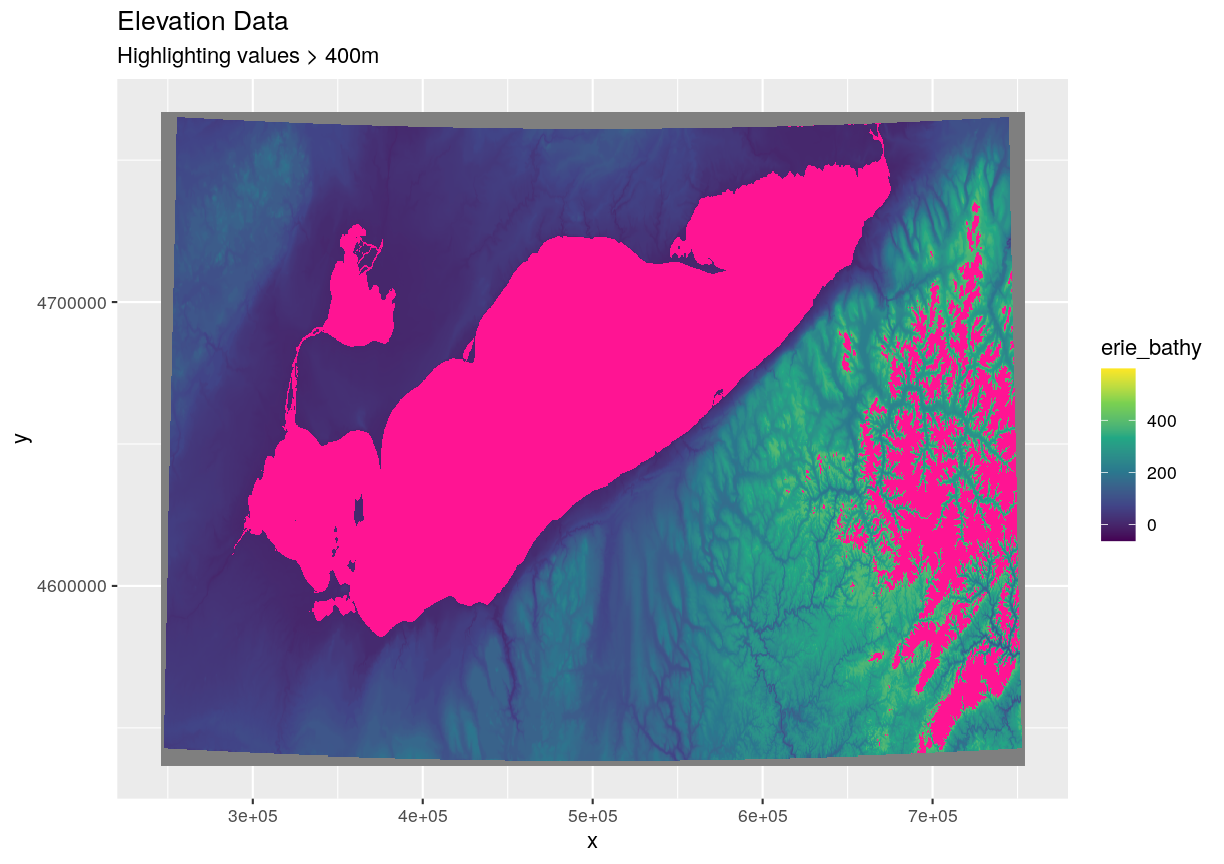
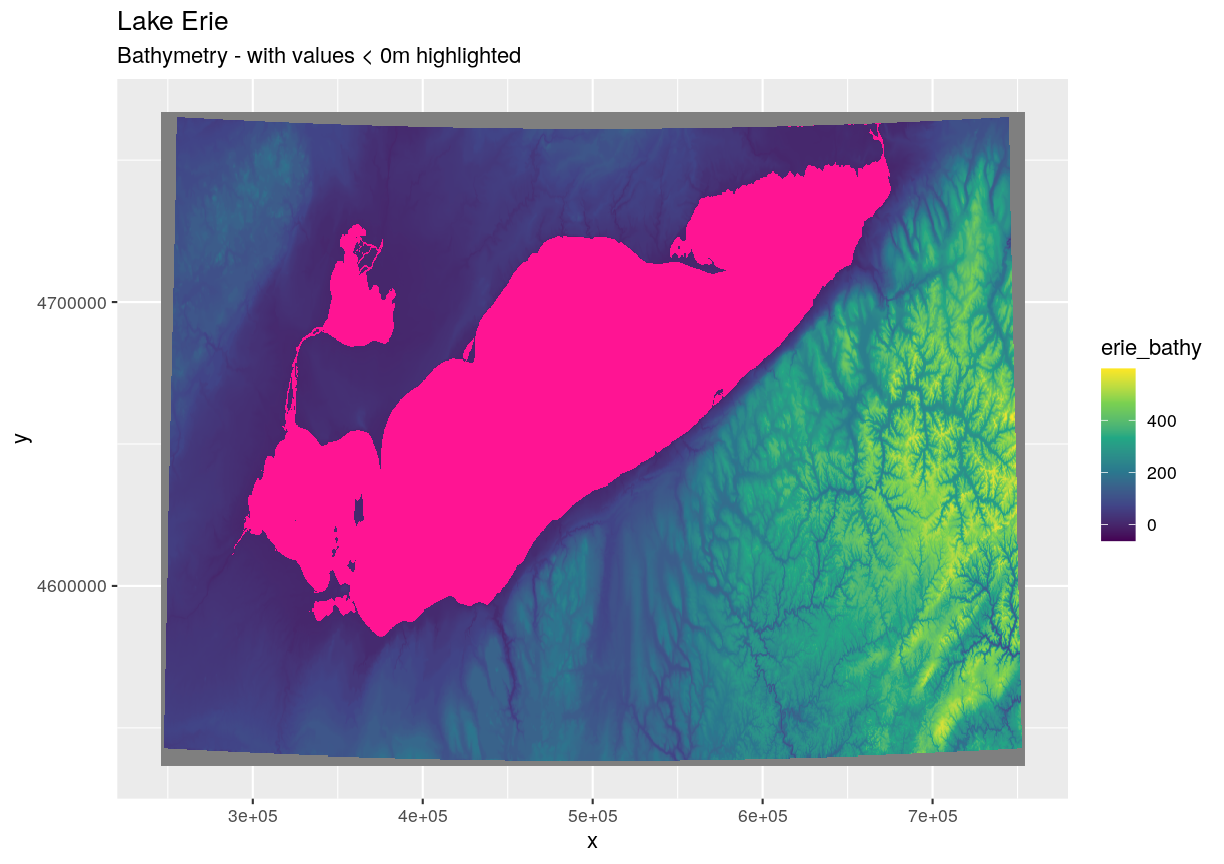
cleanup ep 4

Changed region(s): [[0.683, 0.25, 0.8382, 0.875], [0.0931, 0.0, 0.4346, 0.0938]]

diff --git a/_site/04-raster-structure/index.html b/_site/04-raster-structure/index.html
@@ -19,7 +19,7 @@
   <head>
     <meta charset="utf-8">
     <meta http-equiv="X-UA-Compatible" content="IE=edge">
-    <meta http-equiv="last-modified" content="2020-02-18 15:18:35 -0500">
+    <meta http-equiv="last-modified" content="2020-02-18 15:57:56 -0500">
     <meta name="viewport" content="width=device-width, initial-scale=1">
     <!-- meta "search-domain" used for google site search function google_search() -->
     <meta name="search-domain" value="">
@@ -401,11 +401,11 @@ columns, descriptive statistics for raster data can be retrieved like</p>
 </code></pre></div></div>
 
 <div class="output highlighter-rouge"><div class="highlight"><pre class="highlight"><code>        erie_bathy
-Min.    -62.475956
-1st Qu.   1.499023
-Median   63.130966
-3rd Qu. 219.889240
-Max.    589.709839
+Min.    -62.476700
+1st Qu.   1.658575
+Median   64.375511
+3rd Qu. 220.712543
+Max.    596.867676
 NA's      0.000000
 </code></pre></div></div>
 
@@ -458,6 +458,7 @@ which is a color-blindness friendly color scale. We will also use the <code clas
 </span></code></pre></div></div>
 
 <p><img src="../fig/rmd-04-ggplot-raster-1.png" title="Raster plot with ggplot2 using the viridis color scale" alt="Raster plot with ggplot2 using the viridis color scale" width="612" style="display: block; margin: auto;" /></p>
+
 <blockquote class="callout">
   <h2 id="plotting-tip">Plotting Tip</h2>
 
@@ -479,9 +480,9 @@ which is a color-blindness friendly color scale. We will also use the <code clas
   </blockquote>
 </blockquote>
 
-<p>This map shows the elevation of our study site in Lake Erie. From the
-legend, we can see that the maximum elevation is ~400, but we can’t tell whether
-this is 400 feet or 400 meters because the legend doesn’t show us the units. We
+<p>This map shows the elevation of our Lake Erie study area. From the
+legend, we can see that the maximum elevation is ~600, but we can’t tell whether
+this is 600 feet or 600 meters because the legend doesn’t show us the units. We
 can look at the metadata of our object to see what the units are. Much of the
 metadata that we’re interested in is part of the CRS. We introduced the
 concept of a CRS in <a href="https://datacarpentry.org/organization-geospatial/03-crs">an earlier
@@ -604,31 +605,38 @@ assigned to pixels where data is missing or no data were collected.</p>
 
 <p>By default the shape of a raster is always rectangular. So if we have  a dataset
 that has a shape that isn’t rectangular, some pixels at the edge of the raster
-will have <code class="highlighter-rouge">NoDataValue</code>s. This often happens when the data were collected by an
+will have <code class="highlighter-rouge">NoDataValue</code>s. This can happen if the data were collected by an
 airplane which only flew over some part of a defined region.</p>
 
-<p>In the image below, the pixels that are black have <code class="highlighter-rouge">NoDataValue</code>s. The camera
-did not collect data in these areas.</p>
+<p>In the image below, no pixels are black meaning we have data for every raster “cell”.</p>
 
 <p><img src="../fig/rmd-04-demonstrate-no-data-black-ggplot-1.png" title="plot of chunk demonstrate-no-data-black-ggplot" alt="plot of chunk demonstrate-no-data-black-ggplot" width="612" style="display: block; margin: auto;" /></p>
 
-<p>In the next image, the black edges have been assigned <code class="highlighter-rouge">NoDataValue</code>. R doesn’t
-render pixels that contain a specified <code class="highlighter-rouge">NoDataValue</code>. R assigns missing data
-with the <code class="highlighter-rouge">NoDataValue</code> as <code class="highlighter-rouge">NA</code>.</p>
-
-<p>The difference here shows up as ragged edges on the plot, rather than black
-spaces where there is no data.</p>
-
-<div class="error highlighter-rouge"><div class="highlight"><pre class="highlight"><code>Error: colours encodes as numbers must be positive
-</code></pre></div></div>
-
-<p><img src="../fig/rmd-04-demonstrate-no-data-ggplot-1.png" title="plot of chunk demonstrate-no-data-ggplot" alt="plot of chunk demonstrate-no-data-ggplot" width="612" style="display: block; margin: auto;" /></p>
-
-<p>If your raster already has <code class="highlighter-rouge">NA</code> values set correctly but you aren’t sure where they are, you can deliberately plot them in a particular colour. This can be useful when checking a dataset’s coverage. For instance, sometimes data can be missing where a sensor could not ‘see’ its target data, and you may wish to locate that missing data and fill it in.</p>
+<p>If your raster has <code class="highlighter-rouge">NA</code> values but you aren’t sure where they are, you can deliberately plot them in a particular colour. This can be useful when checking a dataset’s coverage. For instance, sometimes data can be missing where a sensor could not ‘see’ its target data, and you may wish to locate that missing data and fill it in.</p>
 
 <p>To highlight <code class="highlighter-rouge">NA</code> values in ggplot, alter the <code class="highlighter-rouge">scale_fill_*()</code> layer to contain a colour instruction for <code class="highlighter-rouge">NA</code> values, like <code class="highlighter-rouge">scale_fill_viridis_c(na.value = 'deeppink')</code></p>
 
-<p><img src="../fig/rmd-04-napink-1.png" title="plot of chunk napink" alt="plot of chunk napink" width="612" style="display: block; margin: auto;" /></p>
+<div class="error highlighter-rouge"><div class="highlight"><pre class="highlight"><code>Error in eval(expr, envir, enclos): object 'RGB_2m_df_nd' not found
+</code></pre></div></div>
+
+<div class="error highlighter-rouge"><div class="highlight"><pre class="highlight"><code>Error in fortify(data): object 'RGB_2m_nas' not found
+</code></pre></div></div>
+
+<div class="error highlighter-rouge"><div class="highlight"><pre class="highlight"><code>Warning in rm(RGB_2m, RGB_stack, RGB_2m_df_nd, RGB_2m_df, RGB_2m_nas): object
+'RGB_2m' not found
+</code></pre></div></div>
+
+<div class="error highlighter-rouge"><div class="highlight"><pre class="highlight"><code>Warning in rm(RGB_2m, RGB_stack, RGB_2m_df_nd, RGB_2m_df, RGB_2m_nas): object
+'RGB_stack' not found
+</code></pre></div></div>
+
+<div class="error highlighter-rouge"><div class="highlight"><pre class="highlight"><code>Warning in rm(RGB_2m, RGB_stack, RGB_2m_df_nd, RGB_2m_df, RGB_2m_nas): object
+'RGB_2m_df_nd' not found
+</code></pre></div></div>
+
+<div class="error highlighter-rouge"><div class="highlight"><pre class="highlight"><code>Warning in rm(RGB_2m, RGB_stack, RGB_2m_df_nd, RGB_2m_df, RGB_2m_nas): object
+'RGB_2m_nas' not found
+</code></pre></div></div>
 
 <p>The value that is conventionally used to take note of missing data (the
 <code class="highlighter-rouge">NoDataValue</code> value) varies by the raster data type. For floating-point rasters,
@@ -656,13 +664,34 @@ of <code class="highlighter-rouge">NA</code> will be ignored by R as demonstrate
   <blockquote class="solution">
     <h2 id="answers-1">Answers</h2>
 
-    <div class="language-r highlighter-rouge"><div class="highlight"><pre class="highlight"><code><span class="n">GDALinfo</span><span class="p">(</span><span class="s2">"data/NEON-DS-Airborne-Remote-Sensing/HARV/DSM/erie_bathy.tif"</span><span class="p">)</span><span class="w">
+    <div class="language-r highlighter-rouge"><div class="highlight"><pre class="highlight"><code><span class="n">GDALinfo</span><span class="p">(</span><span class="s2">"data//erie_bathy.tif"</span><span class="p">)</span><span class="w">
 </span></code></pre></div>    </div>
 
-    <div class="error highlighter-rouge"><div class="highlight"><pre class="highlight"><code>Error in .local(.Object, ...): 
+    <div class="output highlighter-rouge"><div class="highlight"><pre class="highlight"><code>rows        623 
+columns     1843 
+bands       1 
+lower left origin.x        245701 
+lower left origin.y        4536578 
+res.x       276 
+res.y       370 
+ysign       -1 
+oblique.x   0 
+oblique.y   0 
+driver      GTiff 
+projection  +proj=utm +zone=17 +ellps=GRS80 +towgs84=0,0,0,0,0,0,0 +units=m
++no_defs 
+file        data//erie_bathy.tif 
+apparent band summary:
+   GDType hasNoDataValue NoDataValue blockSize1 blockSize2
+1 Float32           TRUE    -3.4e+38          1       1843
+apparent band statistics:
+       Bmin     Bmax Bmean Bsd
+1 -62.47671 598.1871   NaN NaN
+Metadata:
+AREA_OR_POINT=Area 
 </code></pre></div>    </div>
 
-    <p><code class="highlighter-rouge">NoDataValue</code> are encoded as -9999.</p>
+    <p><code class="highlighter-rouge">NoDataValue</code> are encoded as -3.4e+38.</p>
   </blockquote>
 </blockquote>
 
@@ -691,7 +720,7 @@ identify questionable values.</p>
 
 <p>Plotting data with appropriate highlighting can help reveal patterns in bad
 values and may suggest a solution. Below, reclassification is used to highlight
-elevation values over 400m with a contrasting colour.</p>
+elevation values less than 0m with a contrasting colour.</p>
 
 <p><img src="../fig/rmd-04-demo-bad-data-highlighting-1.png" title="plot of chunk demo-bad-data-highlighting" alt="plot of chunk demo-bad-data-highlighting" width="612" style="display: block; margin: auto;" /></p>
 
@@ -732,42 +761,8 @@ by using the <code class="highlighter-rouge">bins</code> value in the <code clas
 
 <p>Note that the shape of this histogram looks similar to the previous one that
 was created using the default of 30 bins. The distribution of elevation values
-for our <code class="highlighter-rouge">Digital Surface Model (DSM)</code> looks reasonable. It is likely there are
+for our Bathymetry data looks reasonable. It is likely there are
 no bad data values in this particular raster.</p>
-
-<blockquote class="challenge">
-  <h2 id="challenge-explore-raster-metadata">Challenge: Explore Raster Metadata</h2>
-
-  <p>Use <code class="highlighter-rouge">GDALinfo()</code> to determine the following about the <code class="highlighter-rouge">NEON-DS-Airborne-Remote-Sensing/HARV/DSM/HARV_DSMhill.tif</code> file:</p>
-
-  <ol>
-    <li>Does this file have the same CRS as <code class="highlighter-rouge">erie_bathy</code>?</li>
-    <li>What is the <code class="highlighter-rouge">NoDataValue</code>?</li>
-    <li>What is resolution of the raster data?</li>
-    <li>How large would a 5x5 pixel area be on the Earth’s surface?</li>
-    <li>Is the file a multi- or single-band raster?</li>
-  </ol>
-
-  <p>Notice: this file is a hillshade. We will learn about hillshades in the <a href="/05-raster-multi-band-in-r/">Working with
-Multi-band Rasters in R</a>  episode.</p>
-  <blockquote class="solution">
-
-    <h2 id="answers-2">Answers</h2>
-
-    <div class="language-r highlighter-rouge"><div class="highlight"><pre class="highlight"><code><span class="n">GDALinfo</span><span class="p">(</span><span class="s2">"data/NEON-DS-Airborne-Remote-Sensing/HARV/DSM/HARV_DSMhill.tif"</span><span class="p">)</span><span class="w">
-</span></code></pre></div>    </div>
-
-    <div class="error highlighter-rouge"><div class="highlight"><pre class="highlight"><code>Error in .local(.Object, ...): 
-</code></pre></div>    </div>
-    <ol>
-      <li>If this file has the same CRS as erie_bathy?  Yes: UTM Zone 18, WGS84, meters.</li>
-      <li>What format <code class="highlighter-rouge">NoDataValues</code> take?  -9999</li>
-      <li>The resolution of the raster data? 1x1</li>
-      <li>How large a 5x5 pixel area would be? 5mx5m How? We are given resolution of 1x1 and units in meters, therefore resolution of 5x5 means 5x5m.</li>
-      <li>Is the file a multi- or single-band raster?  Single.</li>
-    </ol>
-  </blockquote>
-</blockquote>
 
 <blockquote class="callout">
   <h2 id="more-resources">More Resources</h2>

diff --git a/_site/01-vector-open-shapefile-in-r/index.html b/_site/01-vector-open-shapefile-in-r/index.html
@@ -19,7 +19,7 @@
   <head>
     <meta charset="utf-8">
     <meta http-equiv="X-UA-Compatible" content="IE=edge">
-    <meta http-equiv="last-modified" content="2020-02-18 15:18:35 -0500">
+    <meta http-equiv="last-modified" content="2020-02-18 15:57:56 -0500">
     <meta name="viewport" content="width=device-width, initial-scale=1">
     <!-- meta "search-domain" used for google site search function google_search() -->
     <meta name="search-domain" value="">

diff --git a/_site/02-vector-shapefile-attributes-in-r/index.html b/_site/02-vector-shapefile-attributes-in-r/index.html
@@ -19,7 +19,7 @@
   <head>
     <meta charset="utf-8">
     <meta http-equiv="X-UA-Compatible" content="IE=edge">
-    <meta http-equiv="last-modified" content="2020-02-18 15:18:35 -0500">
+    <meta http-equiv="last-modified" content="2020-02-18 15:57:56 -0500">
     <meta name="viewport" content="width=device-width, initial-scale=1">
     <!-- meta "search-domain" used for google site search function google_search() -->
     <meta name="search-domain" value="">

diff --git a/_site/03-vector-csv-to-shapefile-in-r/index.html b/_site/03-vector-csv-to-shapefile-in-r/index.html
@@ -19,7 +19,7 @@
   <head>
     <meta charset="utf-8">
     <meta http-equiv="X-UA-Compatible" content="IE=edge">
-    <meta http-equiv="last-modified" content="2020-02-18 15:18:35 -0500">
+    <meta http-equiv="last-modified" content="2020-02-18 15:57:56 -0500">
     <meta name="viewport" content="width=device-width, initial-scale=1">
     <!-- meta "search-domain" used for google site search function google_search() -->
     <meta name="search-domain" value="">

diff --git a/_site/05-vector-raster-integration/index.html b/_site/05-vector-raster-integration/index.html
@@ -19,7 +19,7 @@
   <head>
     <meta charset="utf-8">
     <meta http-equiv="X-UA-Compatible" content="IE=edge">
-    <meta http-equiv="last-modified" content="2020-02-18 15:18:35 -0500">
+    <meta http-equiv="last-modified" content="2020-02-18 15:57:56 -0500">
     <meta name="viewport" content="width=device-width, initial-scale=1">
     <!-- meta "search-domain" used for google site search function google_search() -->
     <meta name="search-domain" value="">

diff --git a/_site/CODE_OF_CONDUCT.html b/_site/CODE_OF_CONDUCT.html
@@ -19,7 +19,7 @@
   <head>
     <meta charset="utf-8">
     <meta http-equiv="X-UA-Compatible" content="IE=edge">
-    <meta http-equiv="last-modified" content="2020-02-18 15:18:35 -0500">
+    <meta http-equiv="last-modified" content="2020-02-18 15:57:56 -0500">
     <meta name="viewport" content="width=device-width, initial-scale=1">
     <!-- meta "search-domain" used for google site search function google_search() -->
     <meta name="search-domain" value="">

diff --git a/_site/LICENSE.html b/_site/LICENSE.html
@@ -19,7 +19,7 @@
   <head>
     <meta charset="utf-8">
     <meta http-equiv="X-UA-Compatible" content="IE=edge">
-    <meta http-equiv="last-modified" content="2020-02-18 15:18:35 -0500">
+    <meta http-equiv="last-modified" content="2020-02-18 15:57:56 -0500">
     <meta name="viewport" content="width=device-width, initial-scale=1">
     <!-- meta "search-domain" used for google site search function google_search() -->
     <meta name="search-domain" value="">

diff --git a/_site/about/index.html b/_site/about/index.html
@@ -19,7 +19,7 @@
   <head>
     <meta charset="utf-8">
     <meta http-equiv="X-UA-Compatible" content="IE=edge">
-    <meta http-equiv="last-modified" content="2020-02-18 15:18:35 -0500">
+    <meta http-equiv="last-modified" content="2020-02-18 15:57:56 -0500">
     <meta name="viewport" content="width=device-width, initial-scale=1">
     <!-- meta "search-domain" used for google site search function google_search() -->
     <meta name="search-domain" value="">

diff --git a/_site/aio.html b/_site/aio.html
@@ -19,7 +19,7 @@
   <head>
     <meta charset="utf-8">
     <meta http-equiv="X-UA-Compatible" content="IE=edge">
-    <meta http-equiv="last-modified" content="2020-02-18 15:18:35 -0500">
+    <meta http-equiv="last-modified" content="2020-02-18 15:57:56 -0500">
     <meta name="viewport" content="width=device-width, initial-scale=1">
     <!-- meta "search-domain" used for google site search function google_search() -->
     <meta name="search-domain" value="">

diff --git a/_site/discuss/index.html b/_site/discuss/index.html
@@ -19,7 +19,7 @@
   <head>
     <meta charset="utf-8">
     <meta http-equiv="X-UA-Compatible" content="IE=edge">
-    <meta http-equiv="last-modified" content="2020-02-18 15:18:35 -0500">
+    <meta http-equiv="last-modified" content="2020-02-18 15:57:56 -0500">
     <meta name="viewport" content="width=device-width, initial-scale=1">
     <!-- meta "search-domain" used for google site search function google_search() -->
     <meta name="search-domain" value="">

diff --git a/_site/figures/index.html b/_site/figures/index.html
@@ -19,7 +19,7 @@
   <head>
     <meta charset="utf-8">
     <meta http-equiv="X-UA-Compatible" content="IE=edge">
-    <meta http-equiv="last-modified" content="2020-02-18 15:18:35 -0500">
+    <meta http-equiv="last-modified" content="2020-02-18 15:57:56 -0500">
     <meta name="viewport" content="width=device-width, initial-scale=1">
     <!-- meta "search-domain" used for google site search function google_search() -->
     <meta name="search-domain" value="">

diff --git a/_site/guide/index.html b/_site/guide/index.html
@@ -19,7 +19,7 @@
   <head>
     <meta charset="utf-8">
     <meta http-equiv="X-UA-Compatible" content="IE=edge">
-    <meta http-equiv="last-modified" content="2020-02-18 15:18:35 -0500">
+    <meta http-equiv="last-modified" content="2020-02-18 15:57:56 -0500">
     <meta name="viewport" content="width=device-width, initial-scale=1">
     <!-- meta "search-domain" used for google site search function google_search() -->
     <meta name="search-domain" value="">
